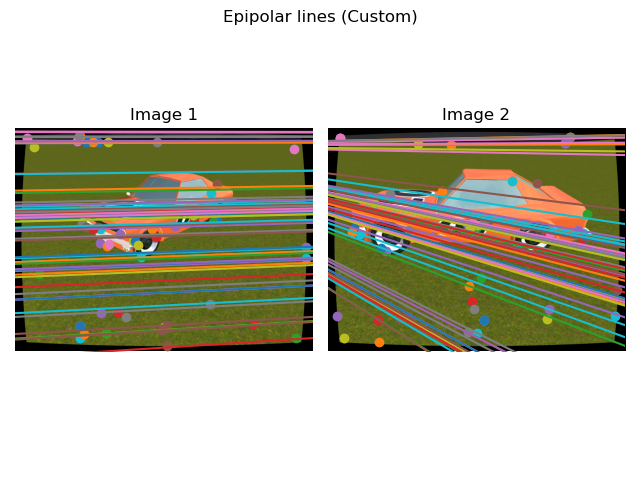
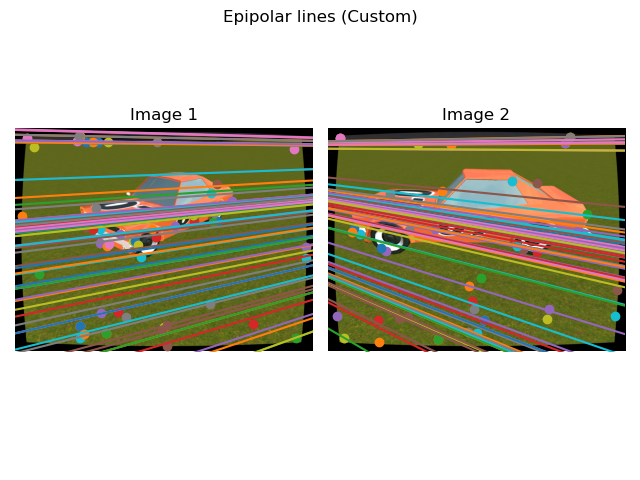
Fixing results

Changed region(s): [[0.0, 0.25, 1.0, 0.75], [0.5312, 0.6875, 0.5625, 0.7188]]

diff --git a/main.py b/main.py
@@ -70,8 +70,8 @@ if __name__ == '__main__':
     print(f"OpenCV Fundamental matrix Error: {sum(compute_epipolar_errors(F_, u1, u2)).mean()}")
     print(f"Custom Fundamental matrix Error: {sum(compute_epipolar_errors(F, u1, u2)).mean()}")
 
-    # plot_epipolar_lines(images[0], images[1], u1, u2, np.arange(u1.shape[1]), F_, title='Epipolar lines (OpenCV)')
-    # plot_epipolar_lines(images[0], images[1], u1, u2, np.arange(u1.shape[1]), F, title='Epipolar lines (Custom)')
+    plot_epipolar_lines(images[0], images[1], u1, u2, np.arange(u1.shape[1]), F_, title='Epipolar lines (OpenCV)')
+    plot_epipolar_lines(images[0], images[1], u1, u2, np.arange(u1.shape[1]), F, title='Epipolar lines (Custom)')
 
     # Triangulate the points
     pts3d_opencv = reconstruction_opencv.reconstruct_scene(pts0, pts1, Ks[0], Ks[1], R_, C_)
